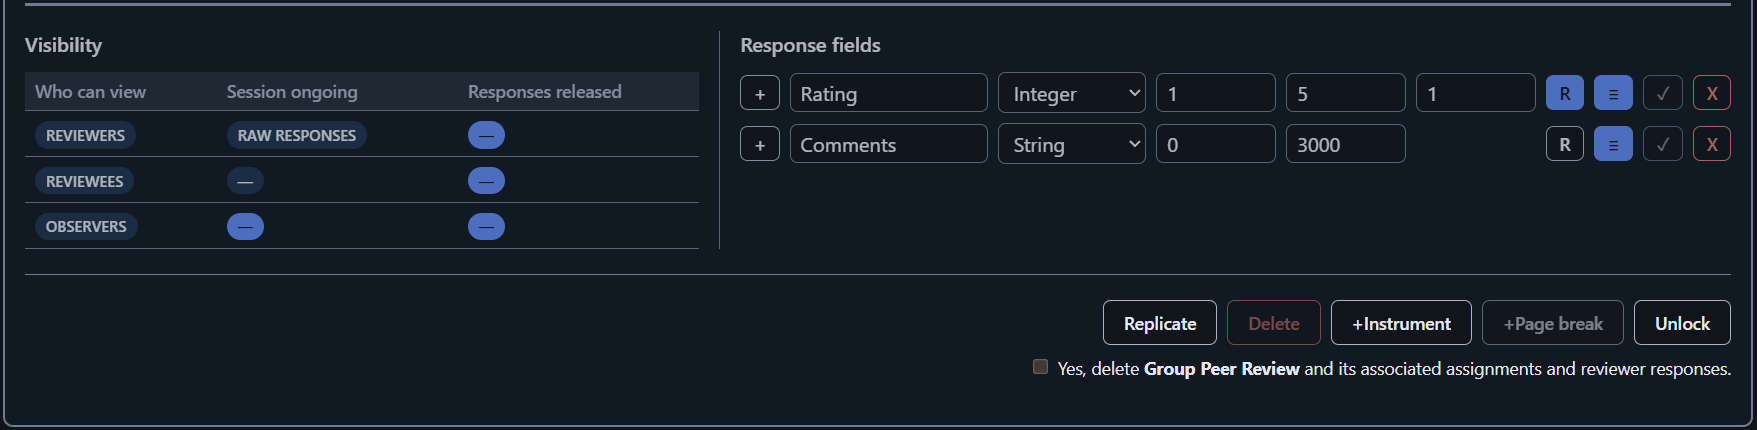
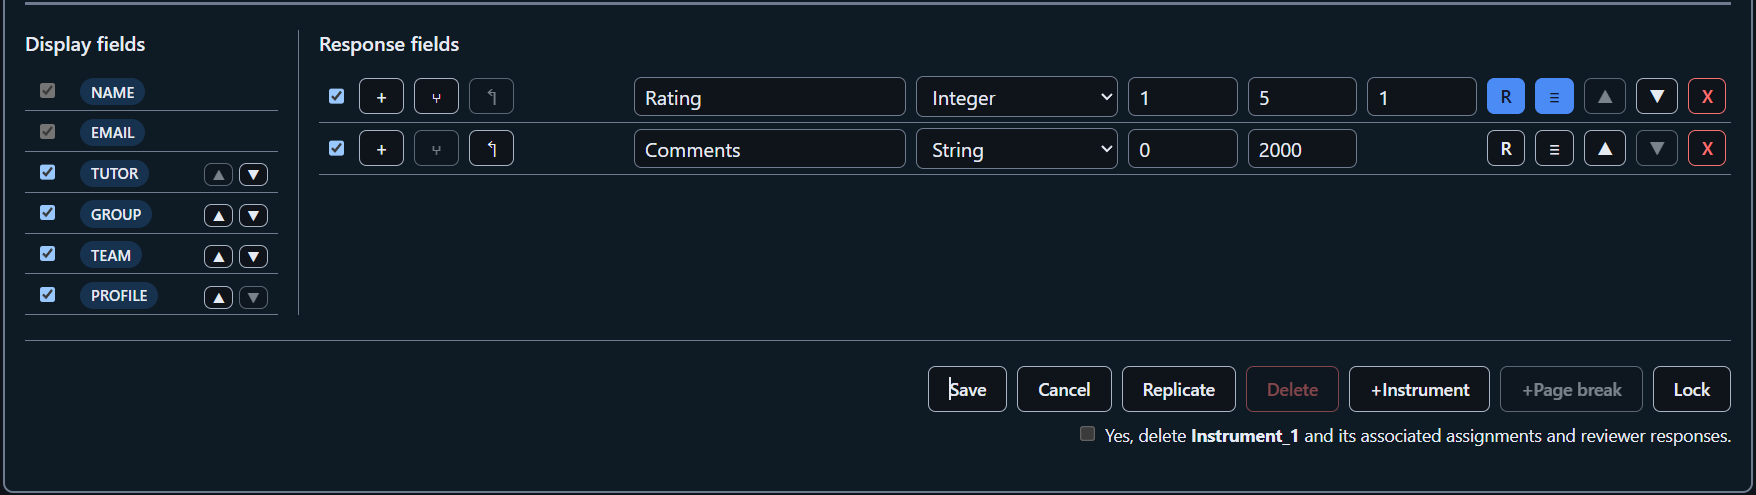
19T Item 15 rung 2: the author's captures, light and dark
From the author's Guide_v4b: the preview and fields pairs are replaced
(the pills and the foot's Visibility table are gone from them), and a
new branching pair, instrument-card-branching, follows the branching
paragraph, which now reads "In the example below". The fields figure
moves up beside the fields paragraph, as in the draft. Alt text for
each pair names only what both halves show, since the pairs were shot
in slightly different states. The fields pair keeps its file name,
which Item 1's Doc impact cites.

Claude-Session: https://claude.ai/code/session_0116Ns1HgCKeKutgZT3Tje64

diff --git a/app/web/templates/guide.html b/app/web/templates/guide.html
@@ -303,18 +303,18 @@
     <figure class="guide-figure">
       <img src="/static/guide/instrument-card-preview.png"
            data-theme-variant="light" loading="lazy"
-           alt="The Preview review instrument part of the card, with a Refresh
-                sample button, the description box, the read-only Who can see
-                what you wrote table, a sample reviewer row with Rating and
-                Comments inputs, and the draggable field pills along the
-                bottom.">
+           alt="The Preview review instrument part of the card: the description
+                box, the Who can see what you wrote table, the response fields'
+                help-text cards, the required and all-items counts, and a
+                sample reviewee row with Tutor, Group, Team and Profile columns
+                and the Rating and Comments inputs.">
       <img src="/static/guide/instrument-card-preview-dark.png"
            data-theme-variant="dark" loading="lazy"
-           alt="The Preview review instrument part of the card, with a Refresh
-                sample button, the description box, the read-only Who can see
-                what you wrote table, a sample reviewer row with Rating and
-                Comments inputs, and the draggable field pills along the
-                bottom.">
+           alt="The Preview review instrument part of the card: the description
+                box, the Who can see what you wrote table, the response fields'
+                help-text cards, the required and all-items counts, and a
+                sample reviewee row with Tutor, Group, Team and Profile columns
+                and the Rating and Comments inputs.">
     </figure>
     <p>
       Per instrument you can set <strong>who sees responses and in what
@@ -330,6 +330,22 @@
       each field, ▲ ▼ to reorder them, and add, delete and edit response
       fields.
     </p>
+    <figure class="guide-figure">
+      <img src="/static/guide/instrument-card-fields-and-visibility.png"
+           data-theme-variant="light" loading="lazy"
+           alt="The foot of the instrument card: the Display fields table with
+                a checkbox and ▲ ▼ per field, the Response fields rows for
+                Rating and Comments with their type, bounds and the R, ≡, ▲ ▼
+                and X buttons, and the card's Replicate, Delete, +Instrument and
+                +Page break buttons above the delete-confirmation checkbox.">
+      <img src="/static/guide/instrument-card-fields-and-visibility-dark.png"
+           data-theme-variant="dark" loading="lazy"
+           alt="The foot of the instrument card: the Display fields table with
+                a checkbox and ▲ ▼ per field, the Response fields rows for
+                Rating and Comments with their type, bounds and the R, ≡, ▲ ▼
+                and X buttons, and the card's Replicate, Delete, +Instrument and
+                +Page break buttons above the delete-confirmation checkbox.">
+    </figure>
     <p>
       Use <strong>+</strong> to add a field below a row
       (until you type a name, it goes by <em>Field 1</em>, <em>Field 2</em>
@@ -342,22 +358,6 @@
       preview keeps its last valid shape. Don't forget to save any edits for
       them to take effect.
     </p>
-    <figure class="guide-figure">
-      <img src="/static/guide/instrument-card-fields-and-visibility.png"
-           data-theme-variant="light" loading="lazy"
-           alt="The foot of the instrument card, locked: the Visibility table
-                with a row per audience across Session ongoing and Responses
-                released, the Response fields editor with per-field type and
-                bounds, and the Replicate, Delete, +Instrument, +Page break
-                and Unlock buttons above the delete-confirmation checkbox.">
-      <img src="/static/guide/instrument-card-fields-and-visibility-dark.png"
-           data-theme-variant="dark" loading="lazy"
-           alt="The foot of the instrument card, locked: the Visibility table
-                with a row per audience across Session ongoing and Responses
-                released, the Response fields editor with per-field type and
-                bounds, and the Replicate, Delete, +Instrument, +Page break
-                and Unlock buttons above the delete-confirmation checkbox.">
-    </figure>
     <p>
       At the bottom of the card, <strong>Replicate</strong> copies the current
       instrument as a new one below it, while <strong>+Instrument</strong>
@@ -374,13 +374,31 @@
       a conditional branch below a field, the <strong>↰</strong> button joins
       the current row to a conditional branch above, and the
       <strong>↳</strong> button detaches the current row from its conditional
-      branch. For example, Rating and Comments can be made answerable only if
-      the reviewer gives more than 3 for Familiarity; and if Rating is less
+      branch. In the example below, Rating and Comments can only be answered
+      if the reviewer gives more than 3 for Familiarity; and if Rating is less
       than 3 or more than 4, Comments becomes required (else it is shown but
       optional). A field inside a branch can have a branch of its own, one
       level down. Once reviewers have answered fields in a branch, its
       condition and fields are locked.
     </p>
+    <figure class="guide-figure">
+      <img src="/static/guide/instrument-card-branching.png"
+           data-theme-variant="light" loading="lazy"
+           alt="The Response fields rows with a branch inside a branch: Familiarity,
+                with the condition row If the above is more than (exclusive) 3
+                then Show the below; Rating in that branch, one column right
+                under a bar, with the condition is outside (exclusive) 3 to 4
+                then Require the below (else, optional); and Comments in
+                Rating's branch, one column further right under a second bar.">
+      <img src="/static/guide/instrument-card-branching-dark.png"
+           data-theme-variant="dark" loading="lazy"
+           alt="The Response fields rows with a branch inside a branch: Familiarity,
+                with the condition row If the above is more than (exclusive) 3
+                then Show the below; Rating in that branch, one column right
+                under a bar, with the condition is outside (exclusive) 3 to 4
+                then Require the below (else, optional); and Comments in
+                Rating's branch, one column further right under a second bar.">
+    </figure>
 
     <h3>Optional: relationships and observers</h3>
     <p>

diff --git a/guide/segment_19T_advanced_instruments.md b/guide/segment_19T_advanced_instruments.md
@@ -2433,6 +2433,15 @@ Taken 2026-09-27 at `3cec7196`:
   fields still show, grayed), "↳ button detaches", and the two-level and
   lock sentences. The example reads "For example" until rung 2 lands its
   capture.
+- **Rung 2 (captures), 2026-09-29, in the same PR** (#2686, still open
+  when the author's `Guide_v4b` arrived with the dark shots). The
+  preview and fields pairs are replaced, and a new branching pair
+  (`instrument-card-branching`) follows the branching paragraph, which
+  now reads "In the example below". The fields pair keeps its file name
+  (`instrument-card-fields-and-visibility`, cited by Item 1's Doc impact)
+  though visibility now sits in the preview. The pairs show slightly
+  different states (the dark fields shot unlocked, the dark branching
+  shot with two more rows), so each alt text names only what both show.
 
 ### PR ladder
 
